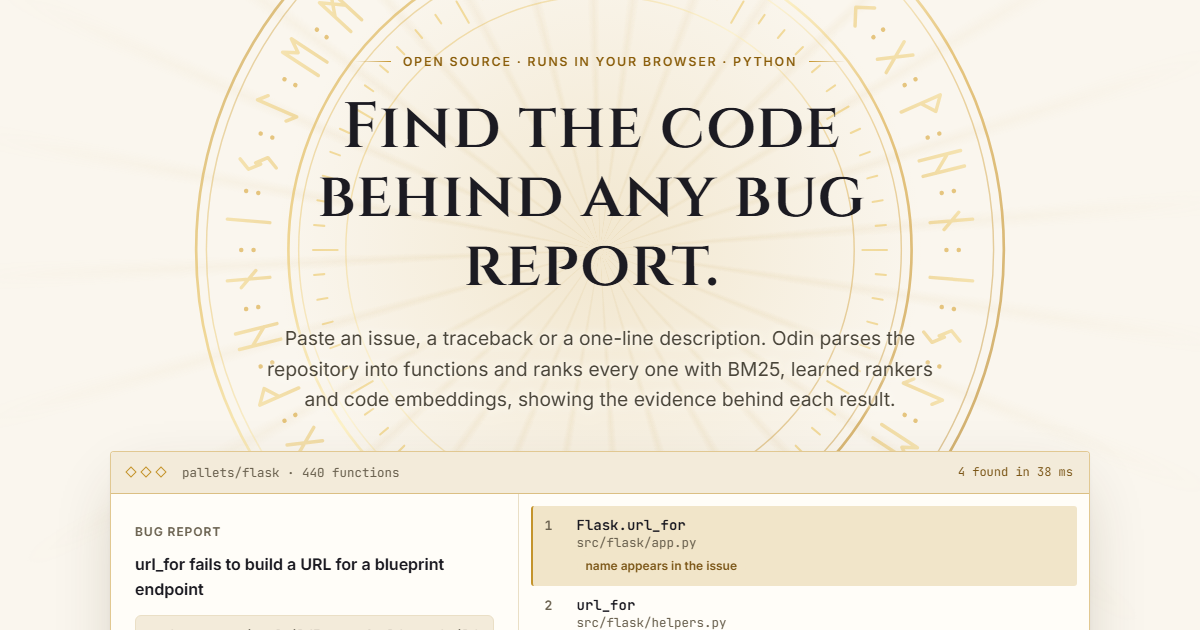
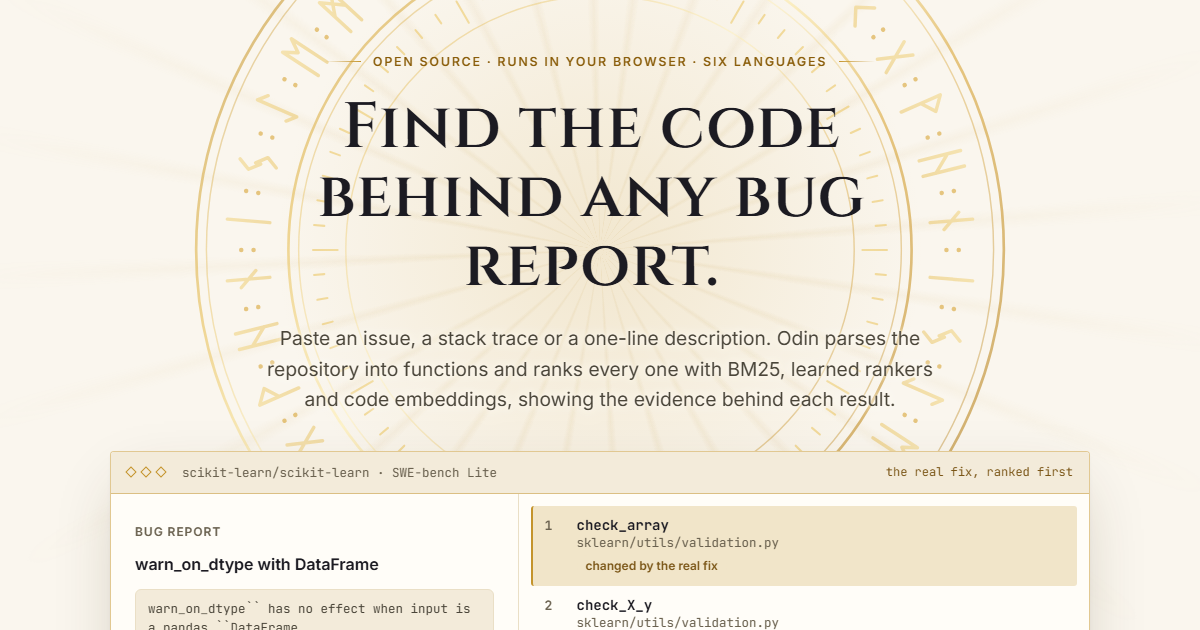
Fix phone and copy problems found in a full UI audit: tables that hid columns, a dangling separator, names split mid-word, small footer links, repeated stage names, a stale preview image, and copy that promised data not yet shown

diff --git a/web/src/pages/Benchmarks.tsx b/web/src/pages/Benchmarks.tsx
@@ -15,7 +15,7 @@ function BrowserComparison({ e, full, depth }: { e: BrowserEval; full?: number; 
     { label: "Instant ranking", value: e.instant["hit@10"], detail: "keyword and mention signals, milliseconds" },
     { label: "+ semantic index", value: e.semantic["hit@10"], detail: "every function embedded in the background", emphasis: !e.rerank },
     ...(e.rerank ? [{ label: `+ language-model rerank of the top ${depth}`, value: e.rerank["hit@10"], emphasis: true }] : []),
-    ...(full != null ? [{ label: "Full pipeline (GPU server)", value: full, detail: "larger models, git history, LLM reranker" }] : []),
+    ...(full != null ? [{ label: "Full research pipeline (GPU)", value: full, detail: "larger models, git history, LLM reranker" }] : []),
   ];
   return <Bars label="Function in the top 10, by in-browser stage" format={pct} rows={rows} />;
 }
@@ -137,7 +137,7 @@ export function Benchmarks({ summary, lite, failed }: { summary: Summary | null;
 }
 
 const LANGUAGE_NAMES: Record<string, string> = { go: "Go", java: "Java", javascript: "JavaScript", rust: "Rust", typescript: "TypeScript" };
-const SET_NAMES: Record<string, string> = { multilingual: "SWE-bench Multilingual", polybench: "SWE-PolyBench" };
+const SET_NAMES: Record<string, string> = { multilingual: "Multilingual", polybench: "PolyBench" };
 
 function Languages({ sets }: { sets: Record<string, Record<string, LanguageEval>> }) {
   const rows = Object.entries(sets).flatMap(([set, langs]) =>
@@ -147,24 +147,27 @@ function Languages({ sets }: { sets: Record<string, Record<string, LanguageEval>
       <p class="kicker">In your browser</p>
       <h2>In five more languages</h2>
       <p class="card-lede">
-        Bugs from two public test sets, in projects the rankers never trained on, scored once. Odin's learned ranker against ranking by
+        Bugs from two public test sets, SWE-bench Multilingual and SWE-PolyBench, in projects the rankers never trained on, scored once. Odin's learned ranker against ranking by
         keywords and meaning alone, the simpler signal the site would fall back to.
       </p>
       <div class="table-wrap" tabIndex={0} role="region" aria-label="Accuracy by language">
         <table>
-          <thead><tr><th>Language</th><th>Test set</th><th>Bugs</th><th>Odin</th><th>Keywords and meaning</th><th>Change</th><th>p</th></tr></thead>
+          <thead><tr><th>Language</th><th class="phone-hide-col">Test set</th><th class="phone-hide-col">Bugs</th><th>Odin</th><th class="wrap">Keywords and meaning</th><th>Change</th><th class="phone-hide-col">p</th></tr></thead>
           <tbody>
             {rows.map(({ set, lang, e }) => {
               const g = e["hit@10_gain"];
               return (
                 <tr key={`${set}:${lang}`}>
-                  <td>{LANGUAGE_NAMES[lang]}</td>
-                  <td>{SET_NAMES[set] ?? set}</td>
-                  <td class="num">{e.issues}</td>
+                  <td class="label-cell">
+                    {LANGUAGE_NAMES[lang]}
+                    <span class="phone-only">{SET_NAMES[set] ?? set} · {e.issues} bugs</span>
+                  </td>
+                  <td class="phone-hide-col">{SET_NAMES[set] ?? set}</td>
+                  <td class="num phone-hide-col">{e.issues}</td>
                   <td class="num">{pct(e.learned["hit@10"])}</td>
                   <td class="num">{pct(e.keyword_and_meaning["hit@10"])}</td>
                   <td class={`num${g.p < 0.05 && g.delta > 0 ? " sig" : ""}`}>{g.delta >= 0 ? "+" : ""}{(g.delta * 100).toFixed(1)}</td>
-                  <td class="num">{g.p < 0.001 ? "<0.001" : g.p.toFixed(3)}</td>
+                  <td class="num phone-hide-col">{g.p < 0.001 ? "<0.001" : g.p.toFixed(3)}</td>
                 </tr>
               );
             })}
@@ -194,12 +197,12 @@ function Gpu({ g }: { g: GpuReranker }) {
         {(gain.ci95[1] * 100).toFixed(1)}, p {gain.p_value < 0.001 ? "< 0.001" : `= ${gain.p_value.toFixed(3)}`}).
       </p>
       <div class="table-wrap" tabIndex={0} role="region" aria-label="The GPU reranker's effect">
-        <table>
+        <table class="label-first">
           <thead><tr><th>Ranking</th><th>hit@1</th><th>hit@5</th><th>hit@10</th><th>MRR</th></tr></thead>
           <tbody>
             {rows.map(([label, m]) => (
               <tr key={label}>
-                <td style={{ whiteSpace: "normal" }}>{label}</td>
+                <td>{label}</td>
                 <td class="num">{pct(m["hit@1"])}</td>
                 <td class="num">{pct(m["hit@5"])}</td>
                 <td class="num">{pct(m["hit@10"])}</td>

diff --git a/web/src/styles.css b/web/src/styles.css
@@ -486,7 +486,10 @@ section.block:not(.card) { margin: 40px 0; }
 .bar-tip b { color: var(--ink); font-size: 14px; }
 
 /* tables */
-.table-wrap { overflow-x: auto; border: 1px solid var(--line); border-radius: 12px; }
+.table-wrap { overflow-x: auto; border: 1px solid var(--line); border-radius: 12px; position: relative; }
+.table-wrap[data-more] { -webkit-mask-image: linear-gradient(to right, #000 calc(100% - 40px), transparent); mask-image: linear-gradient(to right, #000 calc(100% - 40px), transparent); }
+table.label-first td:first-child { white-space: normal; min-width: 11em; }
+.phone-only { display: none; }
 table { border-collapse: collapse; width: 100%; font-size: 14px; }
 th, td { padding: 10px 14px; text-align: left; border-bottom: 1px solid var(--line); white-space: nowrap; vertical-align: top; }
 th { color: var(--muted); font-weight: 600; font-size: 12px; text-transform: uppercase; letter-spacing: .04em; background: var(--bg-2); }
@@ -845,6 +848,14 @@ details > summary { cursor: pointer; color: var(--accent); font-size: 13.5px; fo
 
 /* ---------- responsive ---------- */
 @media (max-width: 600px) {
+  th, td { padding: 8px 8px; font-size: 13px; }
+  td.label-cell { white-space: normal; }
+  th { font-size: 11px; }
+  .phone-hide-col { display: none; }
+  .phone-only { display: block; font-size: 11.5px; color: var(--muted); }
+  th.wrap { white-space: normal; }
+  .footer nav { gap: 4px 18px; }
+  .footer nav a { display: inline-block; padding: 8px 0; }
   .page-hero { padding: 28px 0 20px; }
   .page-hero-lede .phone-hide { display: none; }
   .codewrap pre { font-size: 11.5px; padding: 10px; }

diff --git a/web/src/pages/Search.tsx b/web/src/pages/Search.tsx
@@ -149,7 +149,7 @@ function HitRow({ hit, rank, info, terms, open, onToggle, rating }: {
         onKeyDown={(e) => { if (e.key === "Enter" || e.key === " ") { e.preventDefault(); onToggle(); } }}>
         <span class="rank">{rank}</span>
         <span class="hit-main">
-          <span class="qual">{hit.qualname}</span>
+          <span class="qual">{hit.qualname.split(".").map((part, i) => <>{i > 0 && <>.<wbr /></>}{part}</>)}</span>
           <span class="path">{hit.path}:{hit.line}</span>
         </span>
         <svg class="chev" viewBox="0 0 24 24" aria-hidden="true"><path d="m9 6 6 6-6 6" /></svg>
@@ -569,7 +569,7 @@ export function Search({ active, request }: { active: boolean; request: URLSearc
             )}
             {!info.partial && w.semanticIndex && (
               <span class="muted" title="Every function embedded with a static code model, for search by meaning">
-                {w.semanticIndex.state === "building" ? <Seer size="sm" text="building the semantic index…" /> : w.semanticIndex.state === "ready" ? `· semantic index ready in ${duration(w.semanticIndex.ms)}` : "· semantic index unavailable"}
+                {w.semanticIndex.state === "building" ? <Seer size="sm" text="building the semantic index…" /> : w.semanticIndex.state === "ready" ? `semantic index ready in ${duration(w.semanticIndex.ms)}` : "semantic index unavailable"}
               </span>
             )}
             {info.notes.map((n) => <span class="note" key={n}>{n}</span>)}

diff --git a/web/src/components/Explorer.tsx b/web/src/components/Explorer.tsx
@@ -68,6 +68,13 @@ function verdict(first: number | null, last: number | null, best: { name: string
   return `A miss: no stage put the ${unit} in its top 10. Some bugs are hard to find from the report alone.`;
 }
 
+const withoutName = (blurb: string, name: string) => {
+  const prefix = `${name}:`;
+  if (!blurb.startsWith(prefix)) return blurb;
+  const rest = blurb.slice(prefix.length).trim();
+  return rest.charAt(0).toUpperCase() + rest.slice(1);
+};
+
 const rr = (rank: number | null) => (rank ? 1 / rank : 0).toFixed(3);
 
 /** Ten slots, best on the left; a gold diamond wherever the real fix is. */
@@ -89,7 +96,7 @@ function ClimbRow({ stage, list, gold, open, onToggle, file }: {
       <button type="button" class="climb-head" aria-expanded={open} onClick={onToggle}>
         <span class="climb-name">
           <b>{plainName(stage.id, stage.label)}</b>
-          <span dangerouslySetInnerHTML={{ __html: inlineCode(stage.blurb) }} />
+          <span dangerouslySetInnerHTML={{ __html: inlineCode(withoutName(stage.blurb, plainName(stage.id, stage.label))) }} />
         </span>
         <Ladder list={list} gold={gold} />
         <span class={`climb-rank${r ? "" : " miss"}`}>{r ? `#${r}` : "not in top 10"}</span>

diff --git a/web/src/pages/Explore.tsx b/web/src/pages/Explore.tsx
@@ -38,7 +38,11 @@ export function Explore({ summary, linked, failed, mode: asked, set }: {
   return (
     <div class="container">
       <PageHero kicker="Explore" title="Watch Odin hunt real bugs">
-        <p>Per-issue rankings from the evaluation runs, scored against the maintainers' patch: every stage's top 10 for 300 SWE-bench Lite issues (Python, the full GPU pipeline), and for 501 bugs in JavaScript, TypeScript, Go, Java and Rust (the website's own pipeline). The same data behind the benchmark numbers, one issue at a time.</p>
+        <p>
+          Per-issue rankings from the evaluation runs, scored against the maintainers' patch: every stage's top 10 for 300 SWE-bench Lite
+          issues (Python, the full GPU pipeline){hasLanguages ? ", and for 501 bugs in JavaScript, TypeScript, Go, Java and Rust (the website's own pipeline)" : ""}.
+          The same data behind the benchmark numbers, one issue at a time.
+        </p>
       </PageHero>
       <ol class="how-strip">
         {HOW.map(([icon, title, text], i) => (

diff --git a/web/src/lib/scrollHints.ts b/web/src/lib/scrollHints.ts
@@ -1,0 +1,26 @@
+const mark = (el: HTMLElement) => {
+  const more = el.scrollWidth - el.clientWidth - el.scrollLeft > 4;
+  if (more) el.dataset.more = "";
+  else delete el.dataset.more;
+};
+
+export function scrollHints(): () => void {
+  const watched = new WeakSet<HTMLElement>();
+  const resize = new ResizeObserver((entries) => entries.forEach((e) => mark(e.target as HTMLElement)));
+  const scan = () => {
+    document.querySelectorAll<HTMLElement>(".table-wrap").forEach((el) => {
+      mark(el);
+      if (watched.has(el)) return;
+      watched.add(el);
+      el.addEventListener("scroll", () => mark(el), { passive: true });
+      resize.observe(el);
+    });
+  };
+  const mutations = new MutationObserver(scan);
+  mutations.observe(document.body, { childList: true, subtree: true });
+  scan();
+  return () => {
+    mutations.disconnect();
+    resize.disconnect();
+  };
+}

diff --git a/web/src/App.tsx b/web/src/App.tsx
@@ -2,6 +2,7 @@ import { useEffect, useRef, useState } from "preact/hooks";
 import { Footer, Nav } from "./components/Nav.tsx";
 import { type Lite, type Summary, getJSON } from "./lib/data.ts";
 import { useLazy } from "./lib/lazy.ts";
+import { scrollHints } from "./lib/scrollHints.ts";
 import { type Page, useRoute } from "./lib/router.ts";
 import { Benchmarks } from "./pages/Benchmarks.tsx";
 import { CaseStudy } from "./pages/CaseStudy.tsx";
@@ -47,6 +48,8 @@ export function App() {
       removeEventListener("odin:palette", open);
     };
   }, []);
+
+  useEffect(() => scrollHints(), []);
 
   useEffect(() => {
     getJSON<Summary>("data/summary.json").then(setSummary, () => setFailed(true));
